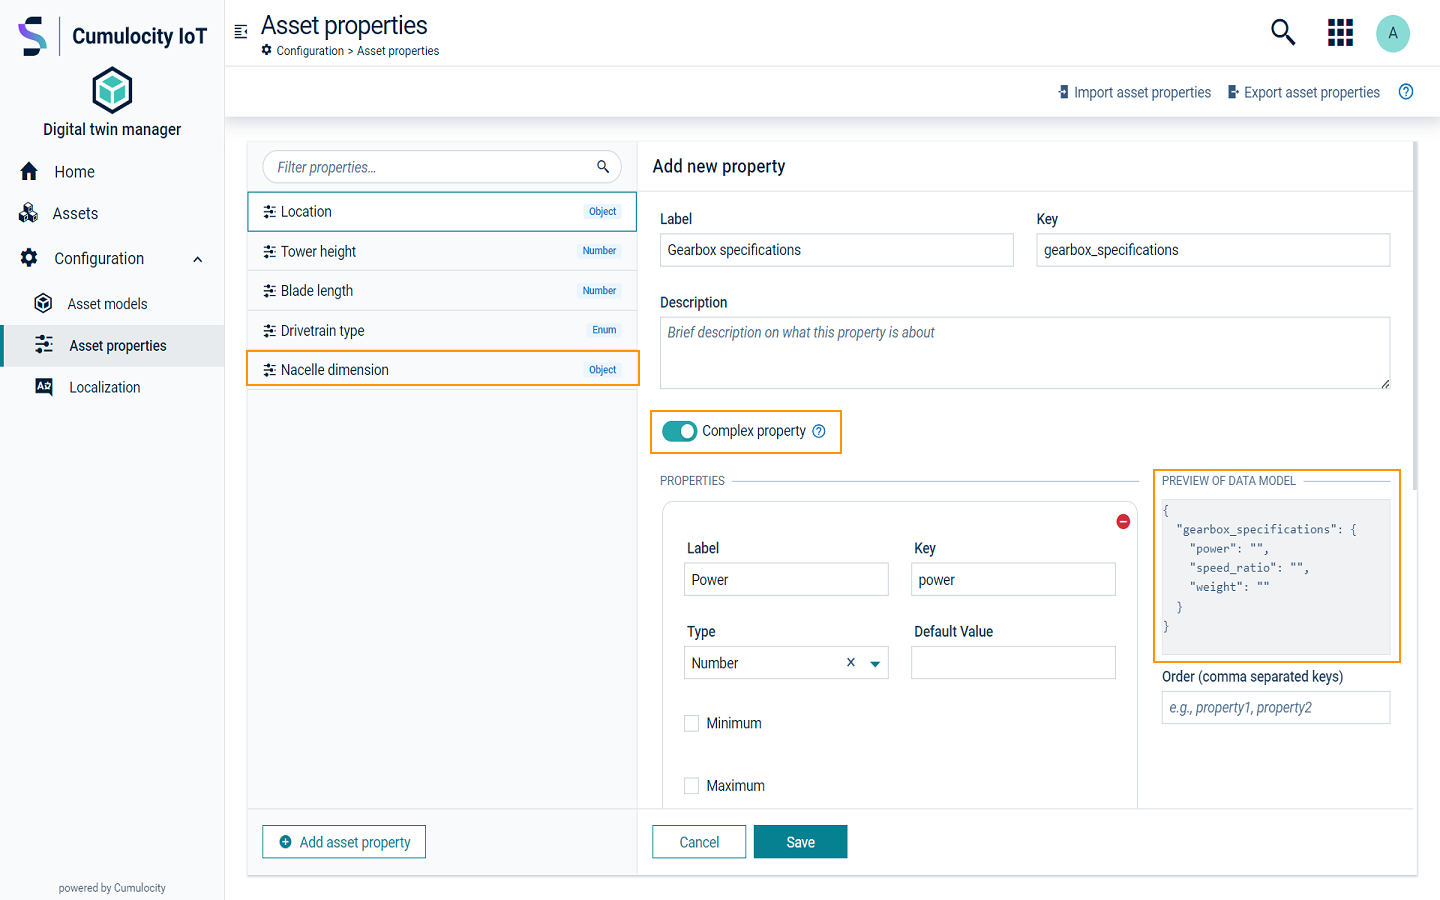
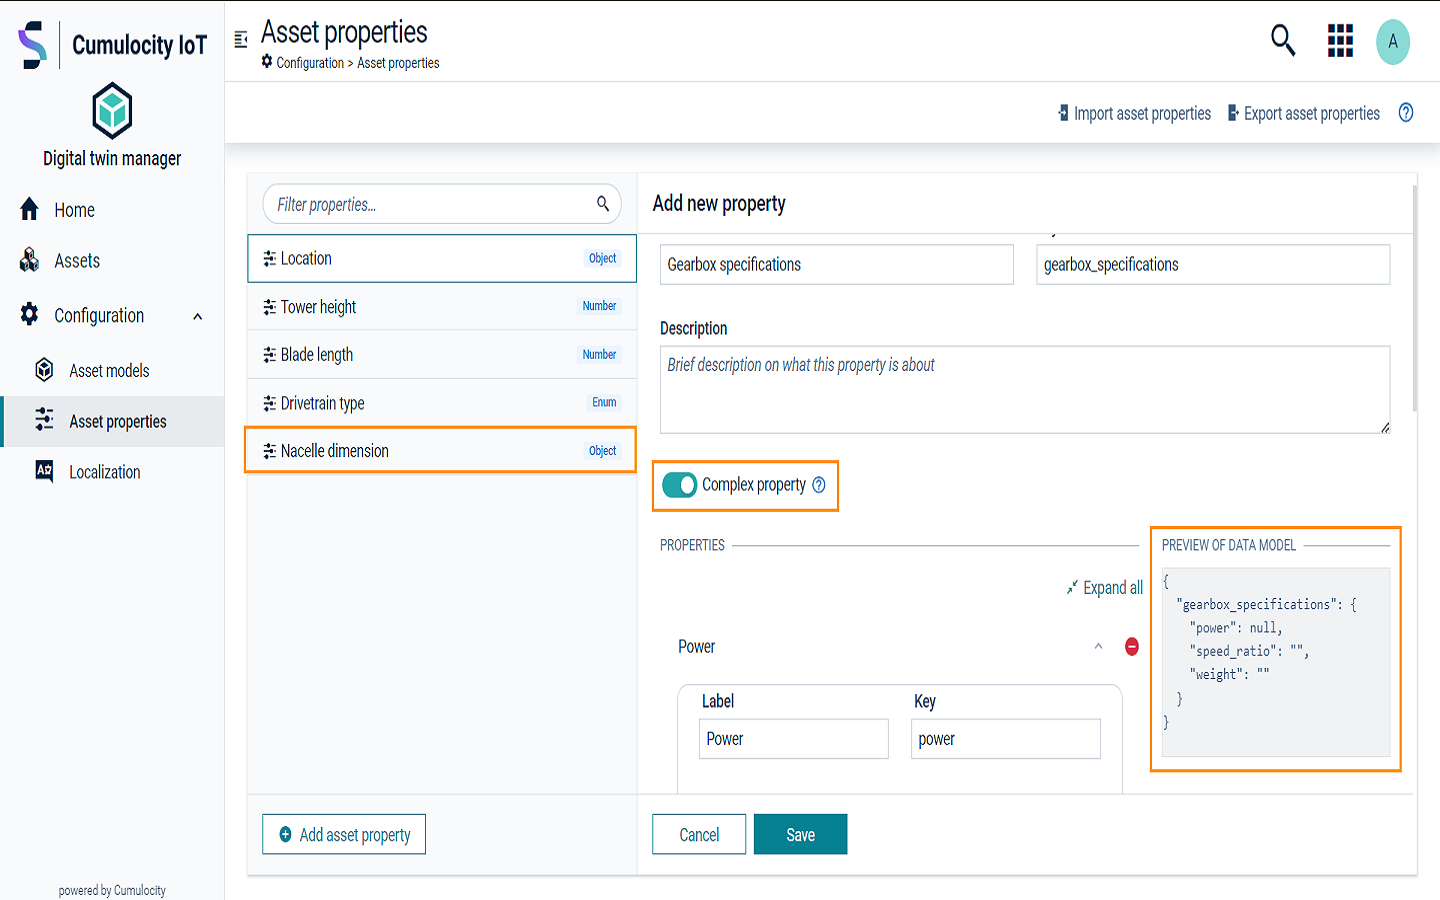
Changes for order property field

diff --git a/content/dtm/asset-types-bundle/asset-properties.md b/content/dtm/asset-types-bundle/asset-properties.md
@@ -278,7 +278,7 @@ In the **Asset properties** simple asset properties are listed with their type.
 
 #### Complex asset property {#complex-asset-property}
 
-A complex asset property consists of multiple key value pairs, meaning, it contains a root object followed by one or more key value pairs. You can select the complex asset property option by switching on the toggle. If you switch on the toggle, you must define each key value pair as well as providing a Type for each pair.
+A complex asset property consists of multiple key value pairs, meaning, it contains a root object followed by one or more key value pairs. You can select the complex asset property option by switching on the toggle. If you switch on the toggle, you must define each key value pair as well as providing a Type for each pair. You can arrange the properties in the required order simply by dragging and dropping them. You can expand all key value pairs at a time using **Expand all**. Alternatively, you can expand each key-value pair to see a specific property. When you add a new key value pair, it automatically expands.
 
 In the **Asset properties** complex asset properties are listed with the label "Object".
 
@@ -289,12 +289,6 @@ You see the preview of data model on the right side of properties section.
 If the asset property is called "Gearbox specifications" with the key "gearbox_specifications", then power, speed increasing ratio and weight are the multiple key value pairs defining the property "Gearbox specifications". Switch on the **Complex property** toggle (see image below). Enter the required information for all key value pairs and click **Save**.
 
 ![Complex asset property](/images/dtm/custom-property/dtm-property-library-complex-property.png)
-
-{{< c8y-admon-info>}}
-
-If you do not fill out the **Order** field, the order is determined by the sequence in which the key value pairs are added and the field will be automatically filled on saving the asset property.
-
-{{< /c8y-admon-info>}}
 
 ### To export asset properties {#to-export-asset-properties}
 

diff --git a/content/dtm/asset-hierarchy-bundle/creating-assets-ui.md b/content/dtm/asset-hierarchy-bundle/creating-assets-ui.md
@@ -38,7 +38,7 @@ The marker is positioned at the default value set in the **Location** property. 
 The values of latitude and longitude are automatically updated whenever a new location is selected on the map and vice-versa. The altitude value is not represented on the map.<br>
 The asset properties are defined when [creating the asset model](/dtm/asset-types/#to-create-an-asset-model).
 When creating an asset you must provide the values for all asset properties.<br>
-For complex properties, the keys are ordered as specified in the **Order** field of property definition.
+For complex properties, the keys are ordered as specified in the property definition.
 {{< /c8y-admon-info>}}
 
 7. Click **Next** to reach the next hierarchy level of your **asset hierarchy** and fill out the fields as necessary for your asset. Repeat for all asset hierarchy levels.

diff --git a/content/dtm/asset-hierarchy-bundle/viewing-assets.md b/content/dtm/asset-hierarchy-bundle/viewing-assets.md
@@ -27,8 +27,8 @@ If the asset has a location, you can see it on the map under the properties sect
 
 {{< c8y-admon-info>}}
 The buttons [Import assets](/dtm/asset-hierarchy/#creating-assets-bulk-import), and [Add asset](/dtm/asset-hierarchy/#to-add-subassets) are not visible for the last hierarchical level.<br>
-If you edit an asset property or an asset model associated with the selected asset, you see a warning icon <i class="dlt-c8y-icon-warning text-warning icon-20"></i> next to the asset model name.<br>
 You see a warning message if one or more properties associated with the asset are not present.
+For complex properties, the keys are ordered as specified in the property definition.
 {{< /c8y-admon-info>}}
 
 ### To modify an asset {#to-modify-an-asset}
